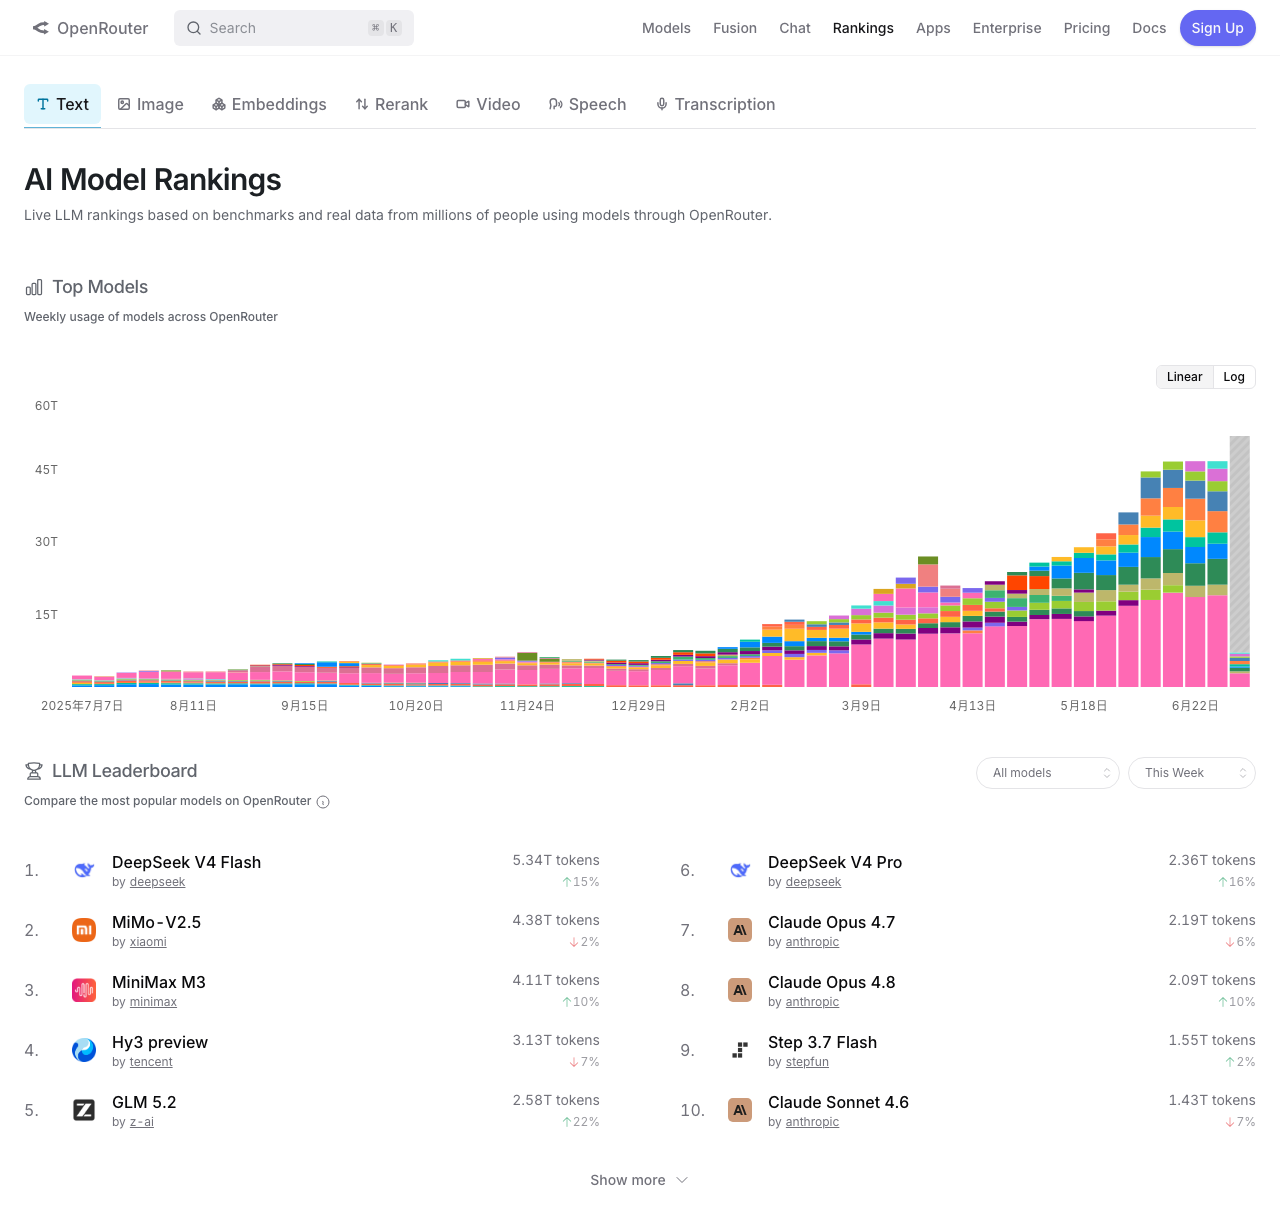
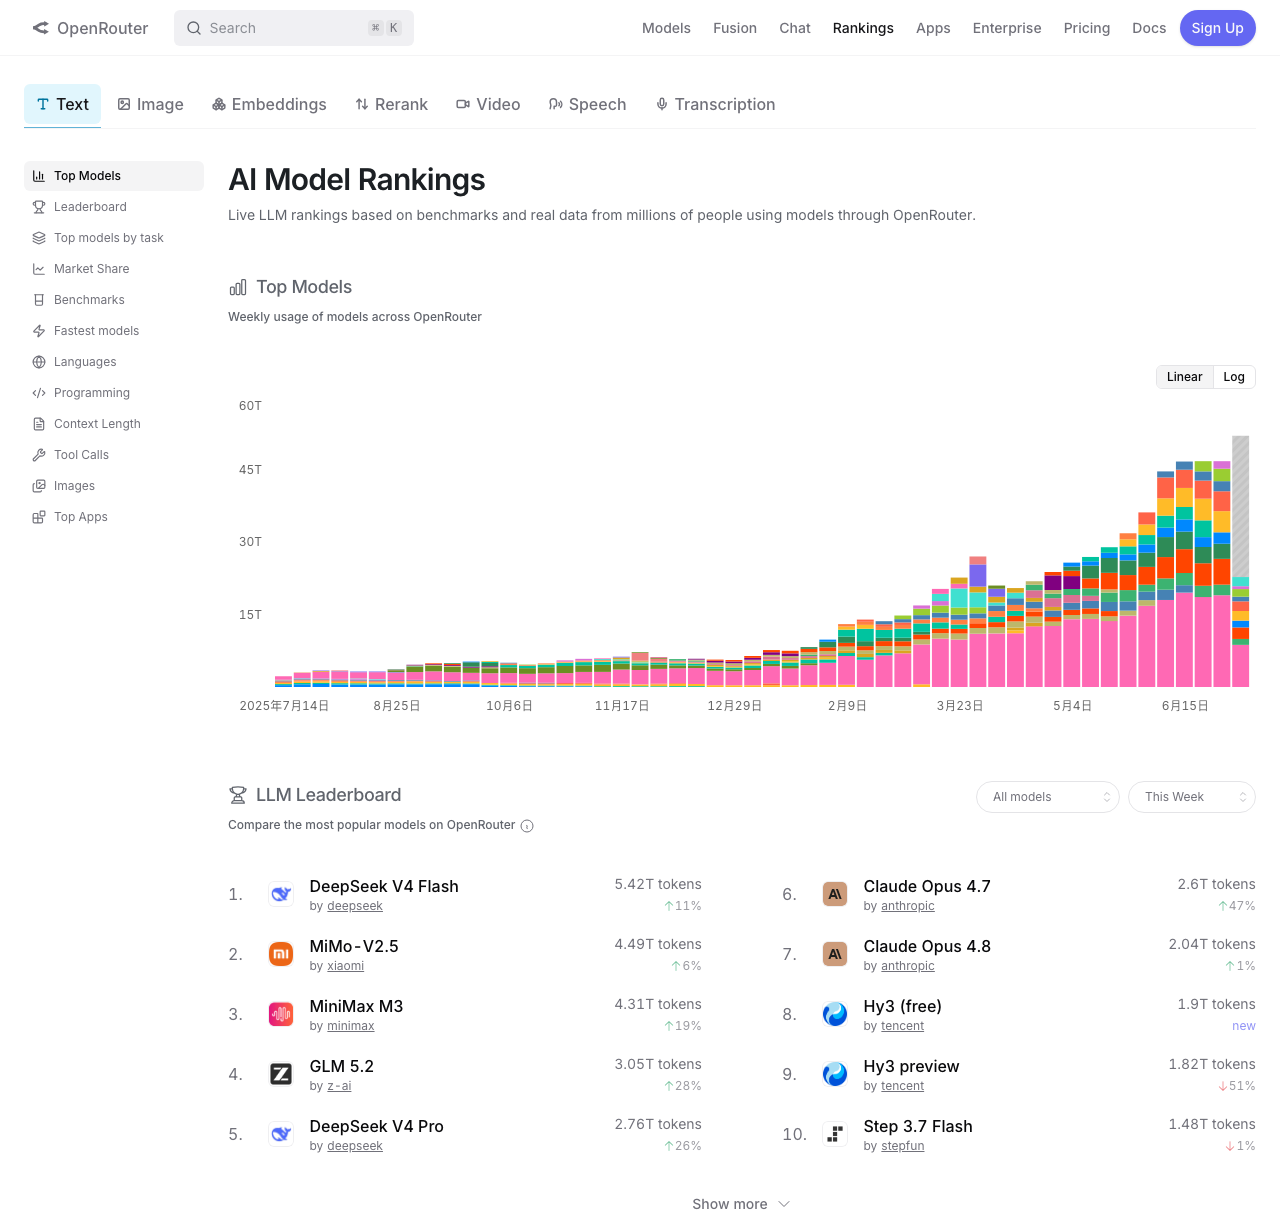
Update OpenRouter snapshot 2026-07-09T00:04:15Z

diff --git a/latest.md b/latest.md
@@ -1,6 +1,6 @@
 # OpenRouter Rankings Snapshot
 
-Generated at: 2026-07-07T00:40:31Z
+Generated at: 2026-07-09T00:04:15Z
 
 Source: https://openrouter.ai/rankings
 